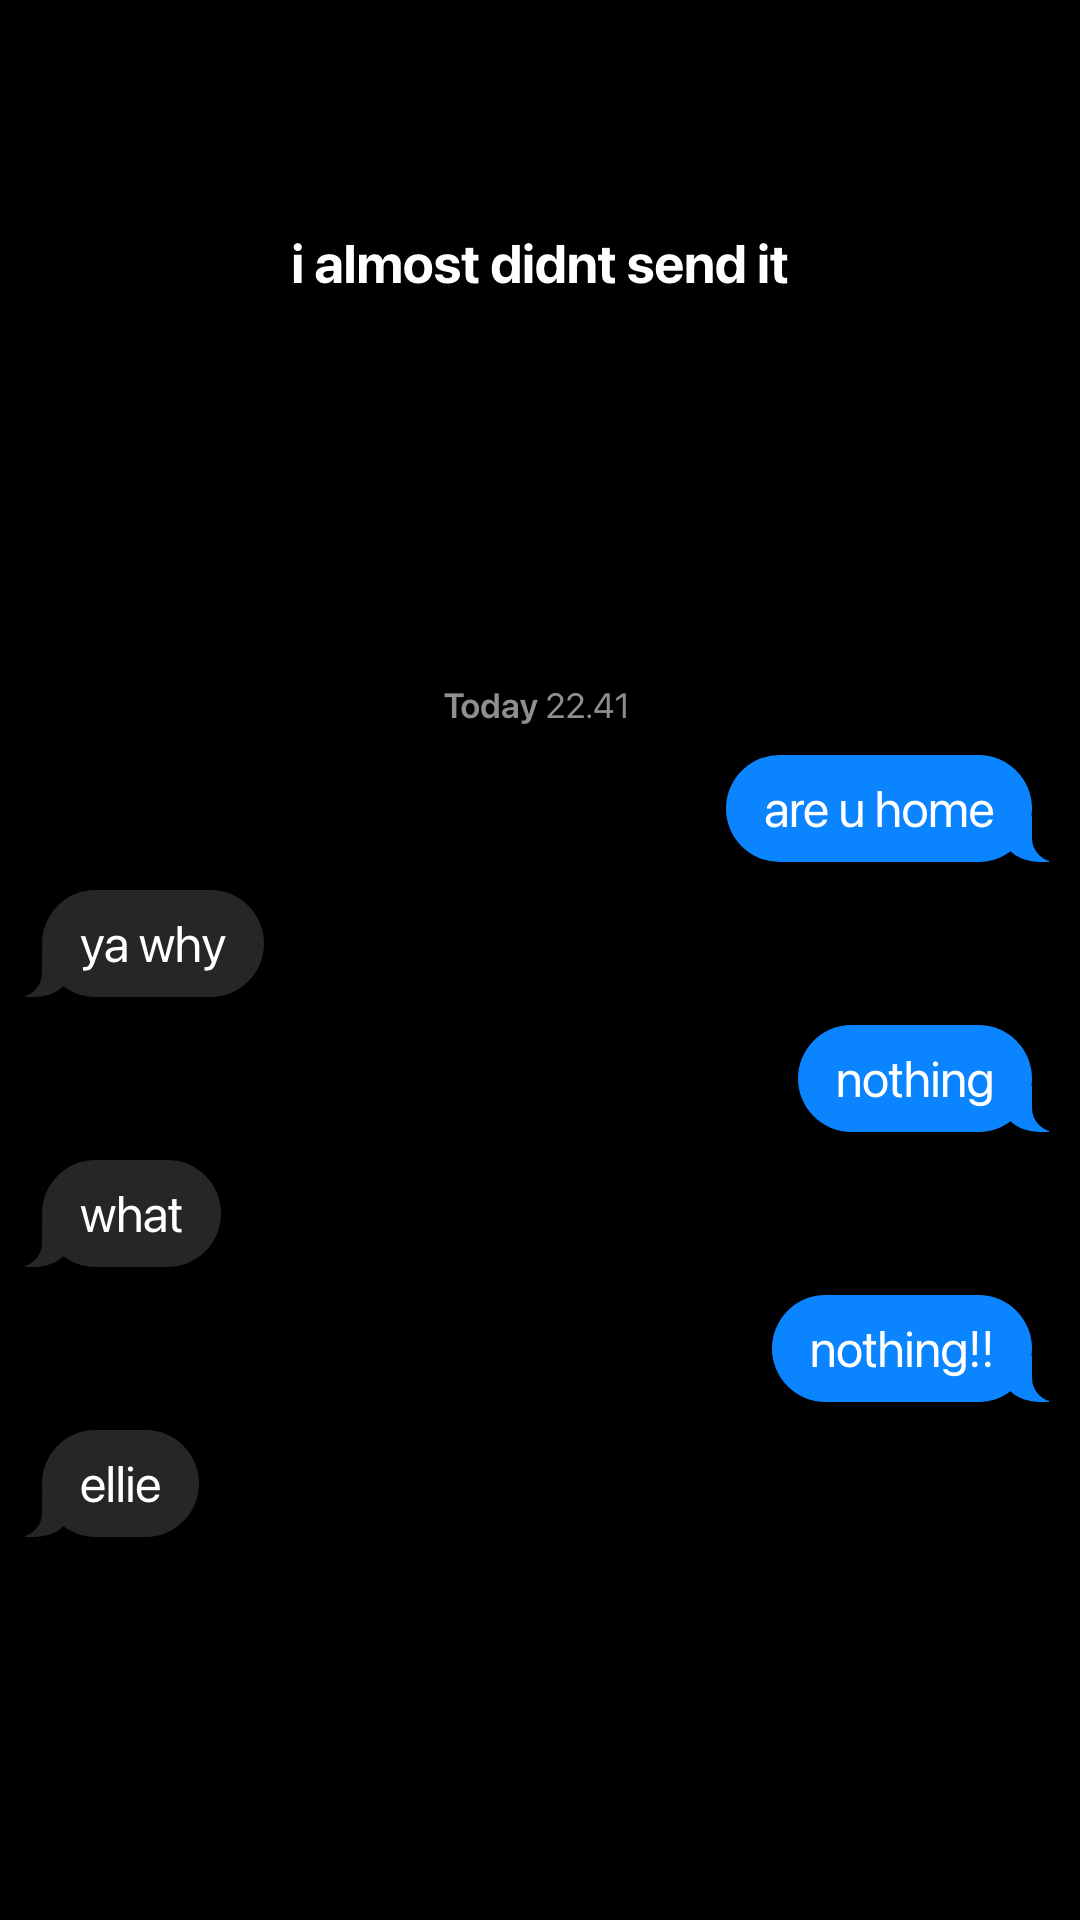
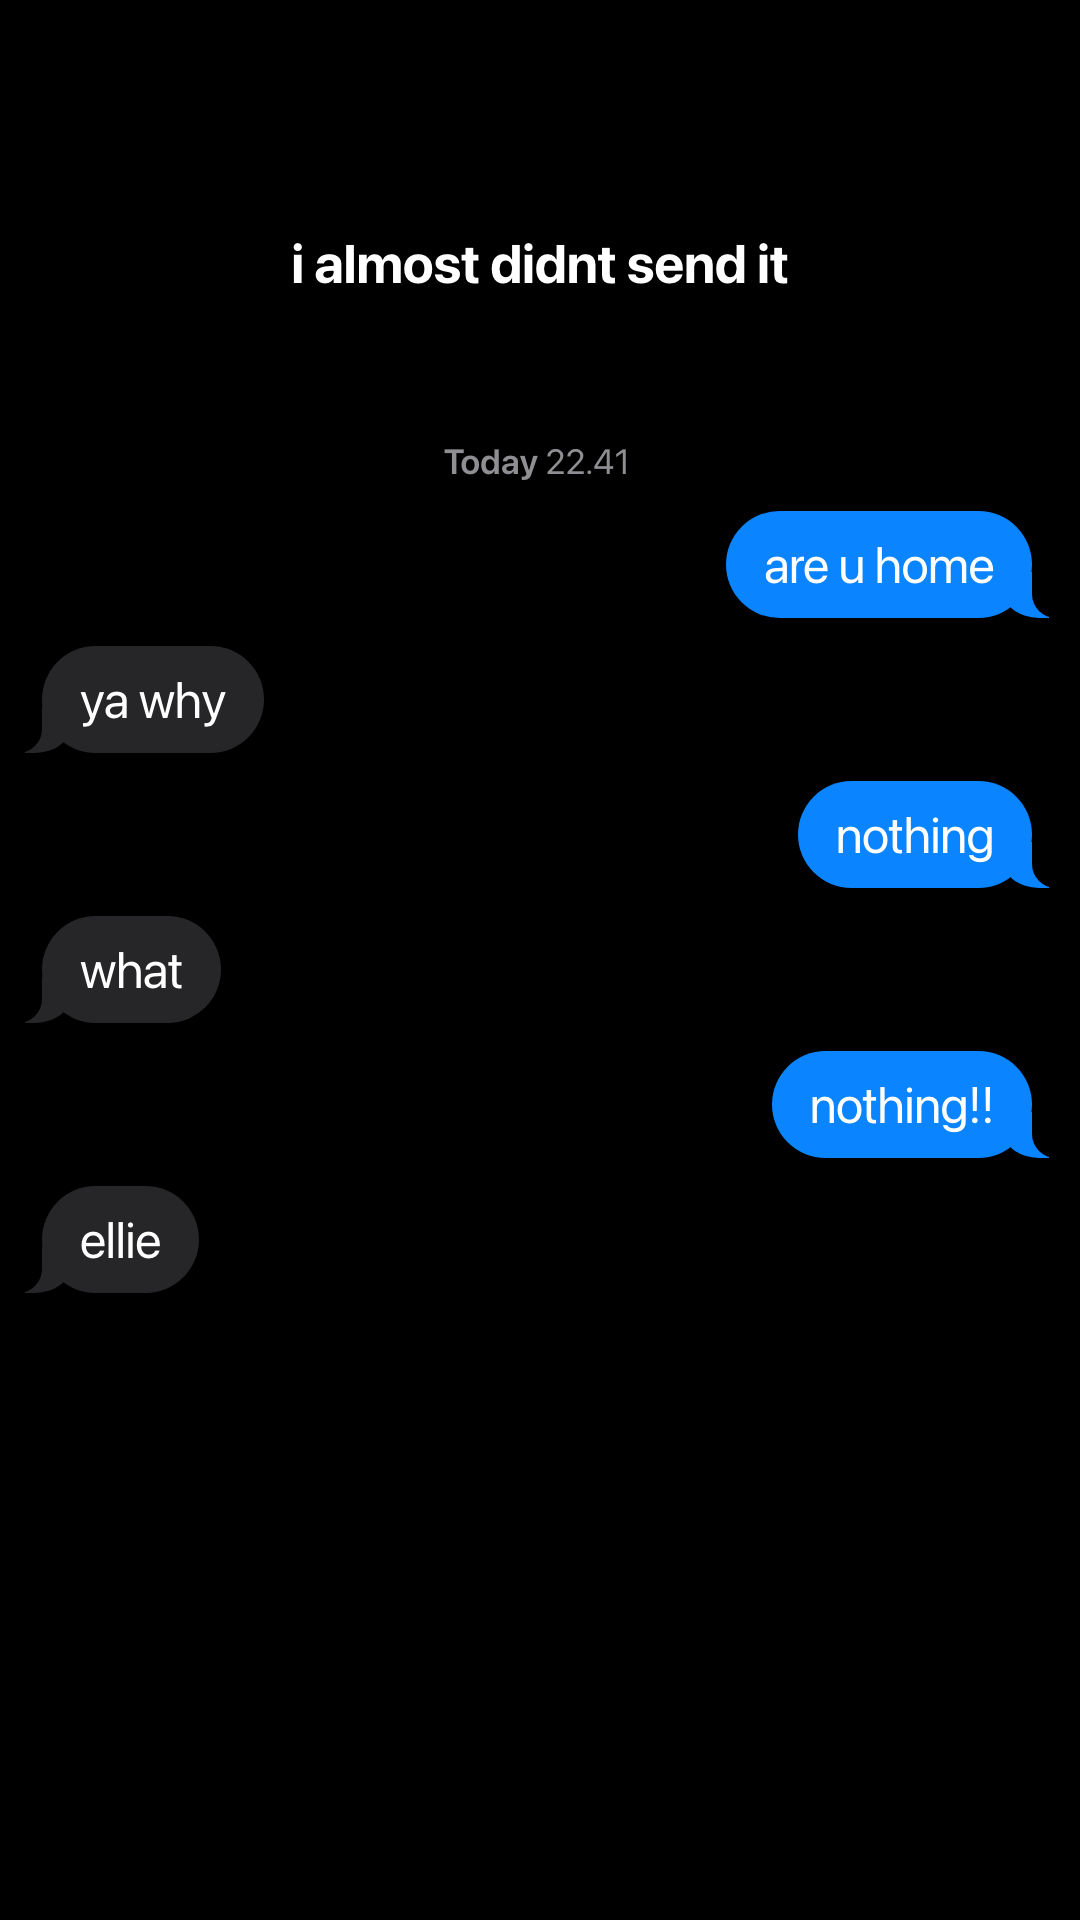
docs(marketing): four slides, not ten — 92 to 94, and the rule that changes
The slide count in this document has been wrong, and 89 to 91 argued for the
wrong thing outright: "ten slides is ten swipes, and swipes are what rank a
photo post". Swipes are not the signal. Finishing is. A ten-slide carousel that
loses most people by slide three reads as a post nobody wanted; a four-slide
one almost everybody finishes reads as a post that worked. The 2.9M post gets
away with ten because its first two slides are the most familiar conversation
on earth. Ours are not that.

Four slides total from here — not four chat slides and six gift frames. The
hook with three or four bubbles under it, the link with two or three, one frame
of the gift, and the payoff. The hook is a quarter of the post now instead of a
tenth, so it has to be the most shocking true sentence in the story, and at
this length a dread hook has exactly one slide to break.

92 "its not finished" — she finds a link in his phone with her name on it,
dated July, never sent, because he was waiting for her to say it first. 93 "in
case" — he sends something and says only open it if we ever break up; she opens
it in 38 minutes and it begins "if ur reading this i already lost". 94 "day 3"
— "dont look at the date": he made it on the 4th of July, they met on the 1st,
and he sat on it for fourteen months until she said he took ages to fall for
her.

The renderer also lays a hooked slide out properly now. Centring the bubbles
left a dead band between the hook and the conversation; a hooked slide is
[…]

diff --git a/docs/marketing/tiktok-92/SCRIPT.md b/docs/marketing/tiktok-92/SCRIPT.md
@@ -1,0 +1,66 @@
+# TikTok carousel 92 · "its not finished" (four slides)
+
+Post **21:00 UK**. **Four slides total** — three of them rendered here, one frame of the gift.
+
+## The beats
+
+23.14: "why is there a link in ur phone with my name on it" / "u went in my phone" / "WHY IS THERE A
+LINK" / "its not finished". Then the link and "its dated july" / "i know". 23.31: "why didnt u send
+it" / "i was waiting for u to say it first" / "say what" / "u know what" / "i love u" / "now its
+finished" ❤.
+
+## Why four
+
+Everything from 77 to 91 is nine or ten slides, and that was the wrong instinct. Swipes are not the
+signal — **finishing** is. A ten-slide carousel that loses most people by slide three reads to the
+algorithm as a post nobody wanted; a four-slide one that almost everybody finishes reads as a post
+that worked. Four slides also means the hook is a third of the post, not a tenth of it.
+
+What survived the cut: the shocking line, the link, one frame of the thing, the payoff. What went:
+the setup, the banter, the gift tour. If a bubble is not doing one of those four jobs it is gone.
+
+- **The hook accuses him of something.** "i found a link in his phone with my name on it" reads as a
+  cheating story for about two seconds, which is exactly long enough. The relief is the post.
+- **"its not finished" / "now its finished"** is the whole arc in two bubbles, forty minutes apart.
+- **"i was waiting for u to say it first"** is the line people screenshot, and it makes him the one
+  who has been holding something back, not her.
+- **She says it first anyway.** Nobody is a bad partner, nobody is owed an apology, so the comments go
+  to "what was in it" rather than to an argument.
+
+## The order
+
+| # | File | On screen |
+|---|---|---|
+| 1 | `slide-01.png` | **hook: "i found a link in his phone with my name on it"** · "why is there a link in ur phone with my name on it" · "u went in my phone" · "WHY IS THERE A LINK" · "its not finished" |
+| 2 | `slide-02.png` | **the link: "when ur ready"** · "its dated july" · "i know" |
+| 3 | yours | One frame of the gift: the page with the July date on it, nothing else in shot |
+| 4 | `slide-03.png` | "why didnt u send it" · "i was waiting for u to say it first" · "say what" · "u know what" · "i love u" · "now its finished" ❤ |
+
+Slide 3 is the only look anybody gets at the product, so make it the best page: a date, a photo, his
+handwriting.
+
+## The gift
+
+Whatever you are shooting. If it is the Scrapbook: theme `Memories`, cover `Classic`, title `when ur
+ready`, the torn note `i made this in july and didnt send it`, the pinned note `july · unsent`.
+
+**Message:** `cleo. i made this in july and then did not send it, because sending it would have meant
+saying it, and you had not said it. it has been in my phone for four months. it is finished now.`
+
+## Post (tt-couple)
+
+Caption: `i found a link in my boyfriends phone with MY name on it 😭 he made it in july and never sent it`
+
+Hashtags: `#couple #boyfriend #storytime #relationship #fyp`
+
+Hooks for slide 1 — swap for each repost:
+
+1. i found a link in his phone with my name on it
+2. "its not finished"
+3. he made it in july and never sent it
+4. "i was waiting for u to say it first"
+5. i went through his phone and found this
+
+- **Pin (the how):** `he made it on tryethos.io in july. it sat in his phone until i found it`
+- **"i thought this was going somewhere bad"** → `so did i. for about 4 seconds`
+- **"waiting for u to say it first is insane"** → `he had it ready for four months. FOUR`

diff --git a/docs/marketing/VIRAL-FORMULA.md b/docs/marketing/VIRAL-FORMULA.md
@@ -446,6 +446,36 @@ happens: the what-if stays a what-if, which keeps it a love story rather than a 
 Judge these on views and shares. Judge 79 to 88 on link clicks. Running both is the point — the reach
 posts fill the account, the sales posts empty the checkout.
 
+## Four slides, not ten: 92 to 94
+
+The slide count in this document has been wrong, and 89 to 91 argued for the wrong thing outright —
+"ten slides is ten swipes, and swipes are what rank a photo post". Swipes are not the signal.
+**Finishing is.** A ten-slide carousel that loses most people by slide three reads to the algorithm as
+a post nobody wanted; a four-slide one that almost everybody finishes reads as a post that worked. The
+2.9M post got away with ten because its first two slides are the most familiar conversation on earth.
+Ours are not that, and ten slides of ours is three slides of attention and seven of drop-off.
+
+**Four slides total.** Not four chat slides and six gift frames — four slides:
+
+1. **The hook**, drawn into the image, with three or four bubbles under it. The hook is now a quarter
+   of the post rather than a tenth, so it has to be the most shocking true sentence in the story.
+2. **The link**, with two or three bubbles around it.
+3. **One frame of the gift.** The best page, the date, the one line — whichever single image sells it.
+   Not a tour.
+4. **The payoff**, four to six bubbles, ending on the line people screenshot.
+
+Everything else goes: the setup, the banter, the second joke, the rest of the gift. If a bubble is not
+doing one of those four jobs, cut it.
+
+**What the hook has to be now.** A fact or an accusation, never a mood. "i found a link in his phone
+with my name on it" reads as a cheating story for two seconds. "he said only open it if we ever break
+up" reads as a breakup. "he made it 3 days after we met" is a date you cannot argue with. Each one
+resolves into devotion by slide 2, which is the rule from 77 held to even harder: at four slides, a
+dread hook has one slide to break.
+
+Two-parters (89, 90) still work at this length — part 1 is three slides and the unopened link, part 2
+is four. Everything else runs at four.
+
 ## The screenshots have to pass for real
 
 People can tell a fake iMessage in half a second, and the moment they can, nobody comments.
@@ -667,5 +697,8 @@ written. 06 is now the first "i love you" and 04 is three months of extra shifts
 | 89 | dont open it yet | part 1 of 2, the unopened link | none, on purpose | — |
 | 90 | i waited 7 | part 2 of 2, what was in it | yours | — |
 | 91 | then u wouldve got it anyway | scheduled 8 months early | any, scheduled | — |
+| 92 | its not finished | the unsent link in his phone | any, one frame | — |
+| 93 | in case | "only open it if we ever break up" | any, one frame | — |
+| 94 | day 3 | made 3 days after they met, sent 14 months later | any, one frame | — |
 
 06 to 18 are the short ones. 19 to 28 follow the 3.1M post: pure banter, with the link as one move in it. 29 to 34 put that banter around real gift occasions. 35 to 38 open on a crying photo and alternate her side and his. 41 to 48 are the short format from the big text posts: three slides, pet names, a last line that mirrors the first, a premium template in the gift. 43 and 47 are Instagram DMs. Post 45, 42 and 44 first. 49 to 56 are the autumn and birthday set, each captioned as a two-sided vote; post the dated ones (50, 51, 55) on their days.

diff --git a/docs/marketing/tiktok-93/SCRIPT.md b/docs/marketing/tiktok-93/SCRIPT.md
@@ -1,0 +1,63 @@
+# TikTok carousel 93 · "in case" (four slides)
+
+Post **21:00 UK**. **Four slides total** — three rendered here, one frame of the gift.
+
+## The beats
+
+21.06: "dont open this now" / "only if we ever break up" / "why would u say that" / "just in case".
+Then the link and "im opening it" / "mia" / "im opening it". 21.44: "it says if ur reading this i
+already lost" / "yeah" / "we havent broken up" / "i know" / "i wanted u to know what id say if we did"
+❤.
+
+## Why this hook
+
+"only open it if we ever break up" is the most frightening sentence in the batch and it is not a
+threat — it is an insurance policy, written by somebody who was too shy to say the thing out loud
+while things were fine. The viewer spends slide 1 certain this ends badly. It does not, and the
+correction happens inside slide 3, which is where a dread hook has to break.
+
+- **Four bubbles on slide 1.** The instruction, the condition, her question, his answer. Nothing else.
+- **"im opening it" / "mia" / "im opening it"** is the whole of slide 2 and it is funnier than any
+  joke we could write, because everybody knows she was always going to open it.
+- **"it says if ur reading this i already lost"** is the screenshot.
+- **The reason is the payoff:** he wanted her to know what he would say if he lost her, while he still
+  had her. Nobody is leaving anybody. Nothing to argue about.
+
+## The order
+
+| # | File | On screen |
+|---|---|---|
+| 1 | `slide-01.png` | **hook: "he said only open it if we ever break up"** · Today 21.06 "dont open this now" · "only if we ever break up" · "why would u say that" · "just in case" |
+| 2 | `slide-02.png` | **the link: "in case"** · "im opening it" · "mia" · "im opening it" |
+| 3 | yours | One frame: the line "if ur reading this i already lost", nothing else in shot |
+| 4 | `slide-03.png` | Today 21.44 "it says if ur reading this i already lost" · "yeah" · "we havent broken up" · "i know" · "i wanted u to know what id say if we did" ❤ |
+
+Slide 3 is one line on a page, held still. Do not show the rest of it — the whole post depends on
+nobody knowing what else it says.
+
+## The gift
+
+Any of them; the line is what matters. If it is The Letter: cover `Starry`, title `in case`, greeting
+`Mia,`, and that line is the first sentence so it is legible in one frame.
+
+**Message:** `mia. if ur reading this i already lost, which means i am not there to say any of it out
+loud, so it is written down instead. you were the best thing that happened to me and i was not clever
+enough to say so while it was going well. i hope you never open this. i hope you opened it anyway.`
+
+## Post (tt-couple)
+
+Caption: `my boyfriend sent me something and said only open it if we ever break up 😭 i opened it immediately obviously`
+
+Hashtags: `#couple #boyfriend #storytime #relationship #fyp`
+
+Hooks for slide 1 — swap for each repost:
+
+1. he said only open it if we ever break up
+2. "just in case"
+3. "if ur reading this i already lost"
+4. i opened it in 38 minutes
+5. he wrote it for a breakup that hasnt happened
+
+- **Pin (the how):** `its on tryethos.io. he wrote it in one go and set it aside. we are still together, i just have no self control`
+- **"i would have opened it in 4 seconds"** → `38 minutes. i was on the bus`
+- **"why would he write that"** → `he said he wanted me to know what hed say if he lost me, while he still hadnt`

diff --git a/docs/marketing/tiktok-94/SCRIPT.md b/docs/marketing/tiktok-94/SCRIPT.md
@@ -1,0 +1,59 @@
+# TikTok carousel 94 · "day 3" (four slides)
+
+Post **21:00 UK**. **Four slides total** — three rendered here, one frame of the gift.
+
+## The beats
+
+20.22: the link, "dont look at the date" / "july 4" / "we met on july 1". Then "i said dont look at
+the date" / "u made this 3 days after we met" / "yeah" / "u didnt even know me" / "thats the thing".
+20.51: "uve had this for a year" / "14 months" / "why send it now" / "u said u thought i took ages to
+fall for u" ❤.
+
+## Why it works in four
+
+- **The hook is a date.** "he made it 3 days after we met" is a fact, not a feeling, and a fact is
+  what stops a scroll. There is nothing to interpret and nothing to argue with.
+- **"dont look at the date" is the best first bubble we have written.** It tells the viewer where to
+  look while pretending to do the opposite, and it costs four words.
+- **The number does everything.** Three days. Fourteen months. He has been carrying it around for
+  over a year, and the reason he finally sent it is that she said something offhand about how long he
+  took to fall for her. He did not argue. He produced evidence.
+- **Nothing is confessed out loud.** "thats the thing" is as close as he gets to saying it.
+
+## The order
+
+| # | File | On screen |
+|---|---|---|
+| 1 | `slide-01.png` | **hook: "he made it 3 days after we met"** · Today 20.22 **the link: "day 3"** · "dont look at the date" · "july 4" · "we met on july 1" |
+| 2 | `slide-02.png` | "i said dont look at the date" · "u made this 3 days after we met" · "yeah" · "u didnt even know me" · "thats the thing" |
+| 3 | yours | One frame: the date on the page — 4 July — with a photo from the first week |
+| 4 | `slide-03.png` | Today 20.51 "uve had this for a year" · "14 months" · "why send it now" · "u said u thought i took ages to fall for u" ❤ |
+
+Slide 3 has to show a date. It is the only proof in the post, and the whole thing rests on it.
+
+## The gift
+
+Anything with a visible date. Scrapbook: theme `Memories`, cover `Classic`, title `day 3`, the pinned
+note `made: 4 july · sent: 14 months later`, and the first page dated.
+
+**Message:** `nell. i made this on the fourth of july, which was three days after we met, and then i
+did not send it for fourteen months because there is no normal way to hand somebody this. you said
+last week that you thought i took a while to come round. i did not. that is the whole message.`
+
+## Post (tt-couple)
+
+Caption: `he made this 3 DAYS after we met and sat on it for 14 months 😭 i said he took ages to fall for me. he did not.`
+
+Hashtags: `#couple #boyfriend #storytime #relationship #fyp`
+
+Hooks for slide 1 — swap for each repost:
+
+1. he made it 3 days after we met
+2. "dont look at the date"
+3. he sat on it for 14 months
+4. i said he took ages to fall for me
+5. 3 days. we met on the 1st.
+
+- **Pin (the how):** `the date is on the first page. he made it on tryethos.io on the 4th of july and did not send it until last night`
+- **"3 days is unhinged"** → `he says it was 2 and a half. that is worse`
+- **"what did u say to make him send it"** → `i said he took ages to like me. he did not say anything, he just sent this`
